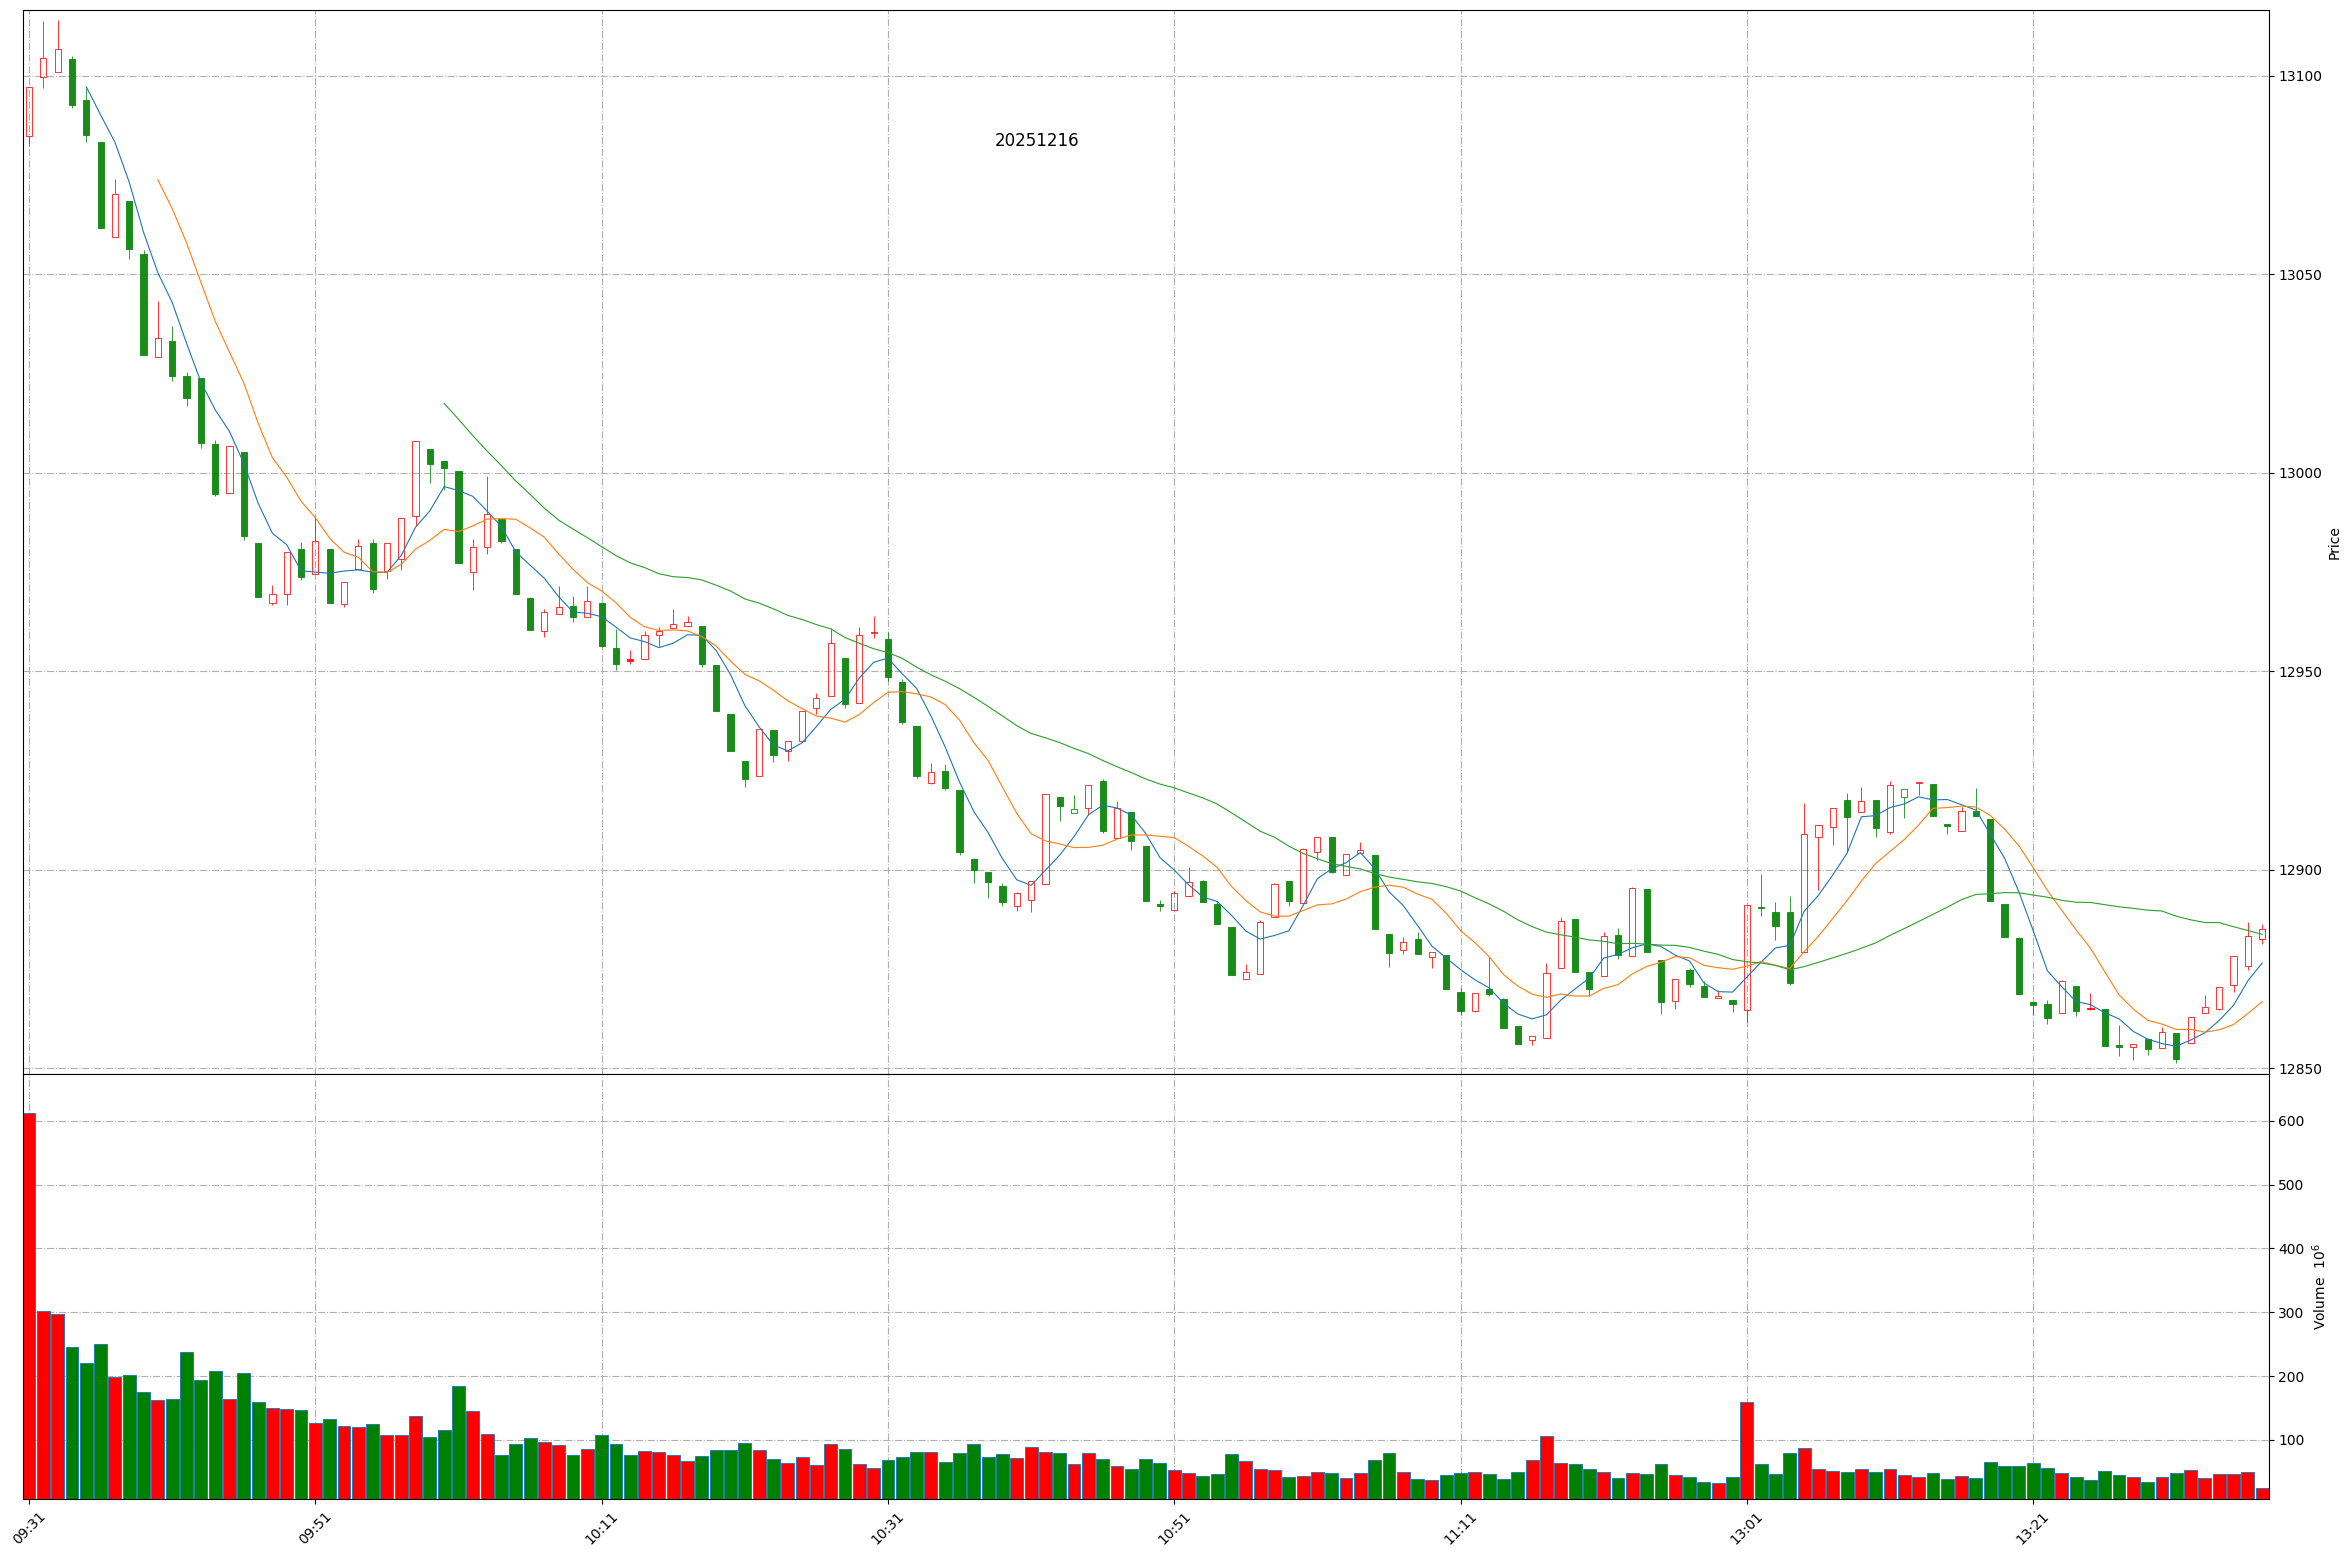
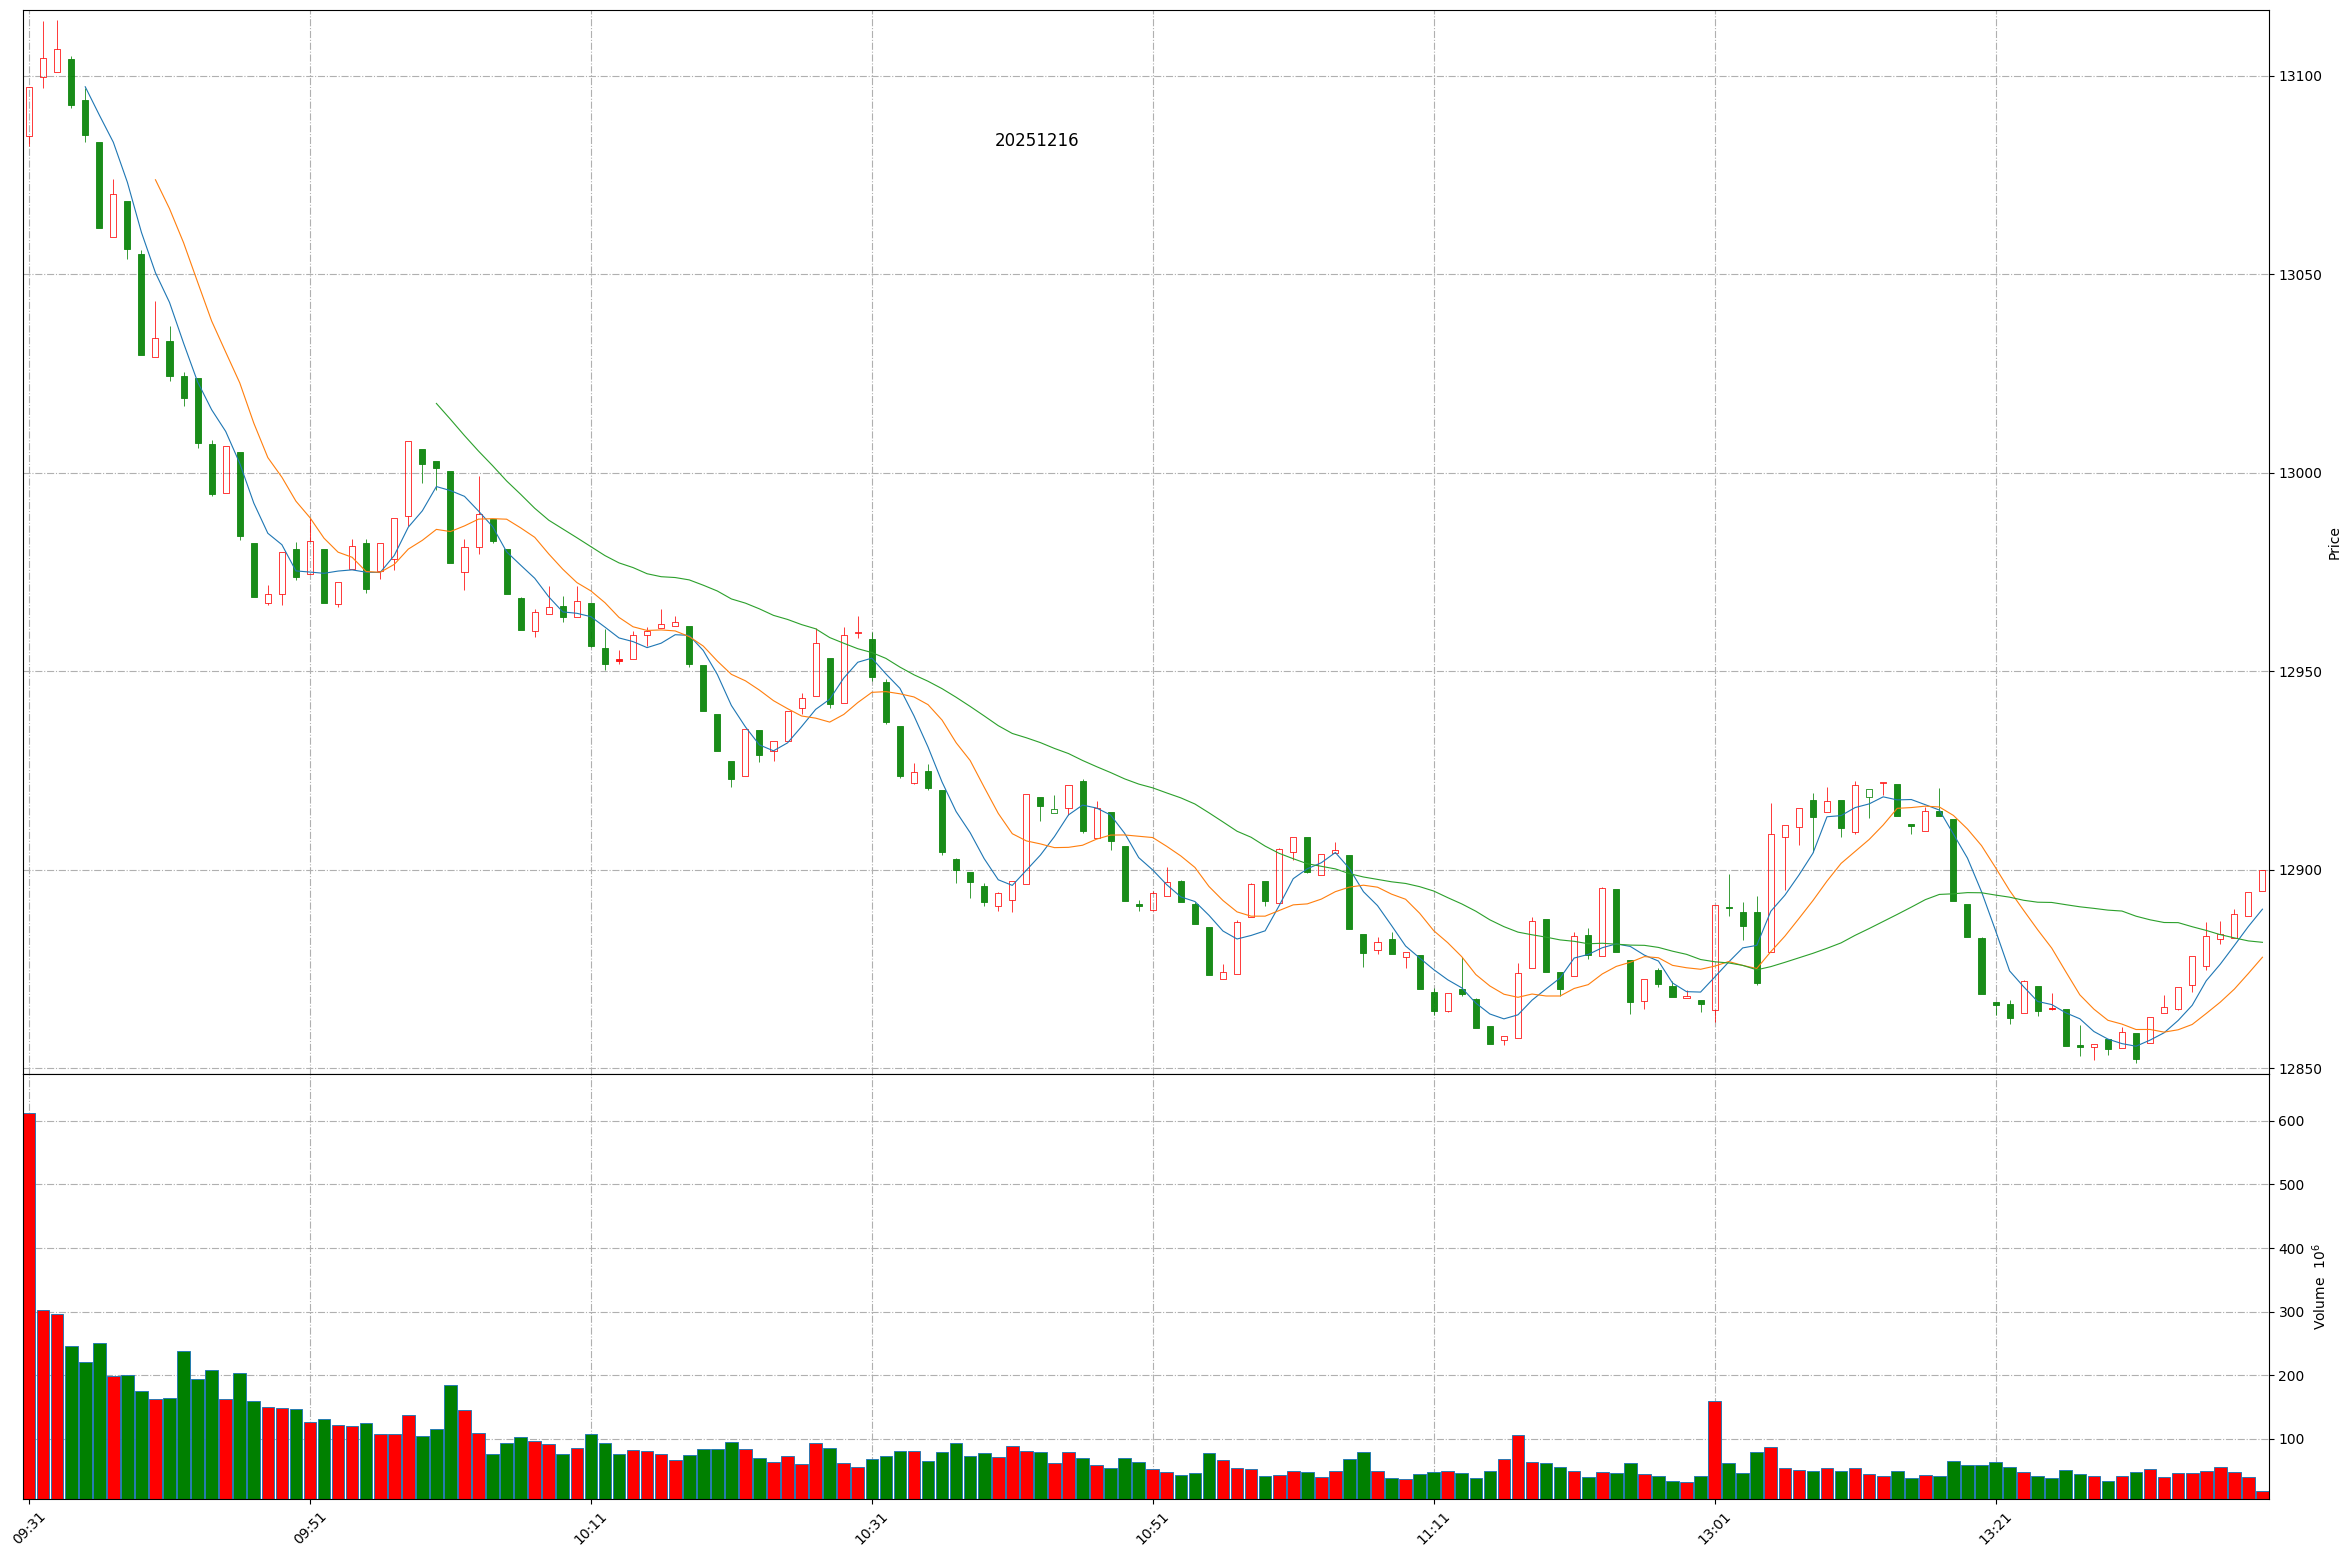
Github action update at 2025-12-16 13:39:21.

diff --git a/README.md b/README.md
@@ -1,11 +1,11 @@
 
 # Daily-A-share-market-quotes 每日 A 股指数（5min 更新）- 20251216
 
-### 上证指数 20251216 13:36
+### 上证指数 20251216 13:39
 ![](./fig/2025/12/20251216-sh000001.png)
 
-### 深证成指 20251216 13:36
+### 深证成指 20251216 13:39
 ![](./fig/2025/12/20251216-sz399001.png)
 
-### 北证50 20251216 13:36
+### 北证50 20251216 13:39
 ![](./fig/2025/12/20251216-bj899050.png)
